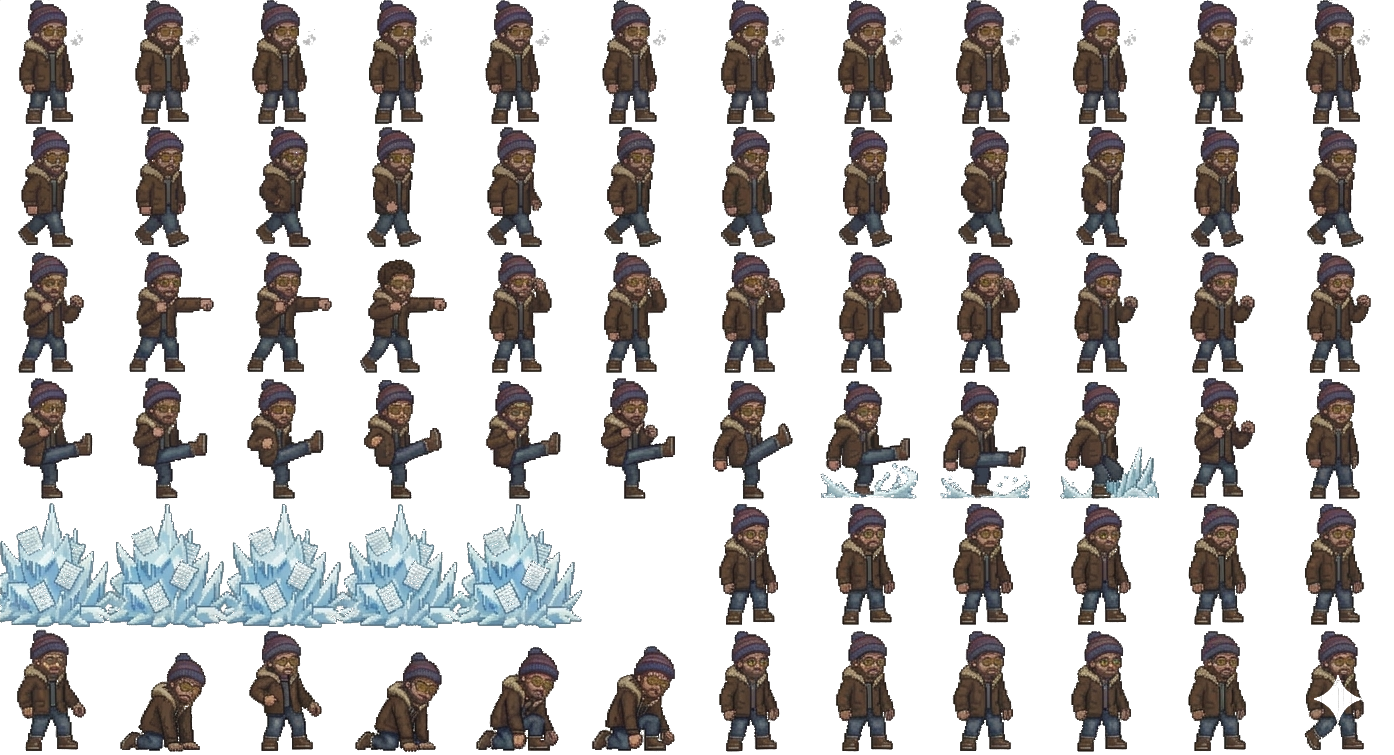
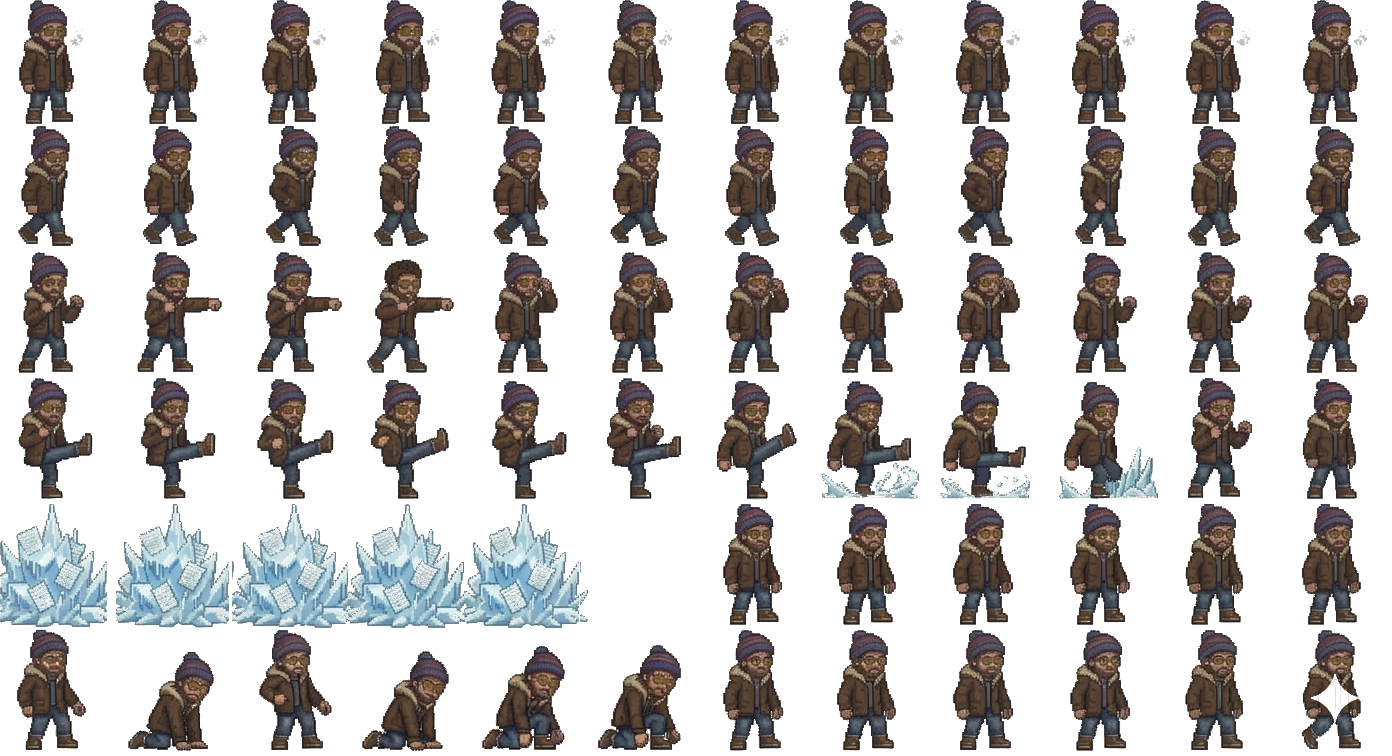
Update hero_taxpayer sprite slicing for improved animation frames

diff --git a/game.js b/game.js
@@ -23,14 +23,14 @@ kaplay({
 
 // ── Hero spritesheets ─────────────────────────────────────────────────────────
 loadSprite("hero_taxpayer", "assets/hero_taxpayer.png", {
-  sliceX: 8, sliceY: 6,
+  sliceX: 12, sliceY: 6,
   anims: {
     idle:    { from: 0,  to: 0,  loop: true,  speed: 1  },   // row 0, single frame
-    walk:    { from: 8,  to: 15, loop: true,  speed: 10 },   // row 1
-    punch:   { from: 16, to: 19, loop: false, speed: 12 },   // row 2, cols 0-3
-    kick:    { from: 20, to: 23, loop: false, speed: 10 },   // row 2, cols 4-7
-    special: { from: 24, to: 31, loop: false, speed: 8  },   // row 3 (Audit Slam / ice burst)
-    hurt:    { from: 32, to: 35, loop: false, speed: 6  },   // row 4
+    walk:    { from: 12, to: 23, loop: true,  speed: 10 },   // row 1, 12 frames
+    punch:   { from: 24, to: 27, loop: false, speed: 12 },   // row 2, cols 0-3
+    kick:    { from: 28, to: 31, loop: false, speed: 10 },   // row 2, cols 4-7
+    special: { from: 36, to: 47, loop: false, speed: 8  },   // row 3 (Audit Slam / ice burst)
+    hurt:    { from: 54, to: 59, loop: false, speed: 6  },   // row 4, cols 6-11
   },
 });
 // loadSprite("hero_priya", "assets/hero_priya.png", { /* same layout */ });
